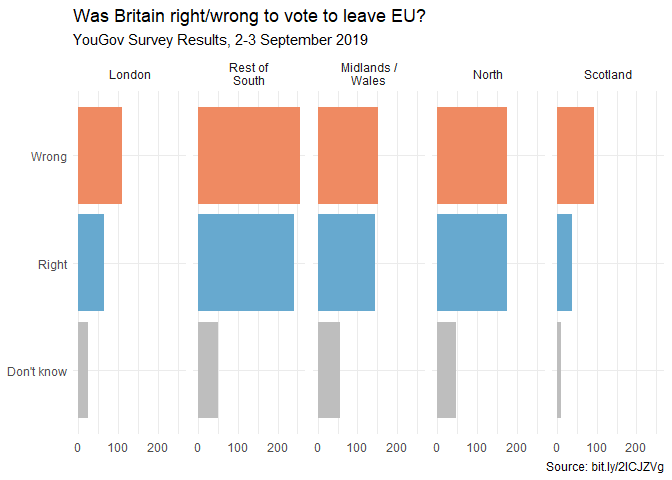
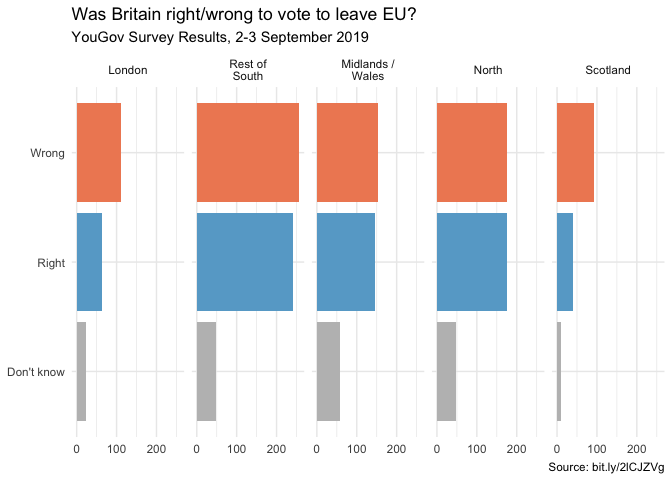
activity complete

diff --git a/brexit.md b/brexit.md
@@ -1,6 +1,6 @@
 Brexit
 ================
-Naomi Ekas
+Cami Ciesielski
 
 In September 2019, YouGov survey asked 1,639 GB adults the following
 question:
@@ -64,7 +64,7 @@ ggplot(brexit, aes(y = opinion, fill = opinion)) +
   geom_bar() +
   facet_wrap(~region,
     nrow = 1, labeller = label_wrap_gen(width = 12),
-    # ___
+    scales = "free_x"
   ) +
   guides(fill = FALSE) +
   labs(
@@ -96,16 +96,55 @@ visualisation telling different than the story the original plot tells?
 which means you’ll need to load it on top of the document as well.
 
 ``` r
-# code goes here
+ brexit %>% 
+  count(region, opinion) %>% 
+  group_by(region) %>% 
+  mutate(opinion_prop = n / sum(n)) %>% 
+ggplot(aes(x = opinion_prop, fill = opinion, y = opinion)) +
+  geom_col() +
+  guides(fill = FALSE) +
+  facet_wrap(~region, nrow = 1, labeller = label_wrap_gen(width = 12)) + 
+    labs(
+    title = "Was Britain right/wrong to vote to leave EU?",
+    subtitle = "YouGov Survey Results, 2-3 September 2019",
+    caption = "Source: bit.ly/2lCJZVg",
+    x = "Percent", y = NULL
+  ) +
+  scale_fill_manual(values = c(
+    "Wrong" = "#ef8a62",
+    "Right" = "#67a9cf",
+    "Don't know" = "gray")) +
+  theme_minimal() + 
+  scale_x_continuous(labels = percent)
 ```
+
+    ## Warning: `guides(<scale> = FALSE)` is deprecated. Please use `guides(<scale> =
+    ## "none")` instead.
+
+![](brexit_files/figure-gfm/count%20regions-1.png)<!-- -->
 
 ### Exercise 3 - Comparing proportions across bars
 
-Recreate the same visualization from the previous exercise, this time
-dodging the bars for opinion proportions for each region, rather than
-faceting by region and then improve the legend. How is the story this
-visualization telling different than the story the previous plot tells?
-
 ``` r
-# code goes here
+ brexit %>% 
+  count(region, opinion) %>% 
+  group_by(region) %>% 
+  mutate(opinion_prop = n / sum(n)) %>% 
+ggplot(aes(x = opinion_prop, fill = opinion, y = fct_rev(region))) +
+  geom_col(position = "dodge") +
+  #facet_wrap(~region, nrow = 1, labeller = label_wrap_gen(width = 12)) + 
+    labs(
+    title = "Was Britain right/wrong to vote to leave EU?",
+    subtitle = "YouGov Survey Results, 2-3 September 2019",
+    caption = "Source: bit.ly/2lCJZVg",
+    x = "Percent", y = NULL
+  ) +
+  scale_fill_manual(values = c(
+    "Wrong" = "#ef8a62",
+    "Right" = "#67a9cf",
+    "Don't know" = "gray")) +
+  theme_minimal() + 
+  scale_x_continuous(labels = percent)
 ```
+
+![](brexit_files/figure-gfm/unnamed-chunk-4-1.png)<!-- -->
